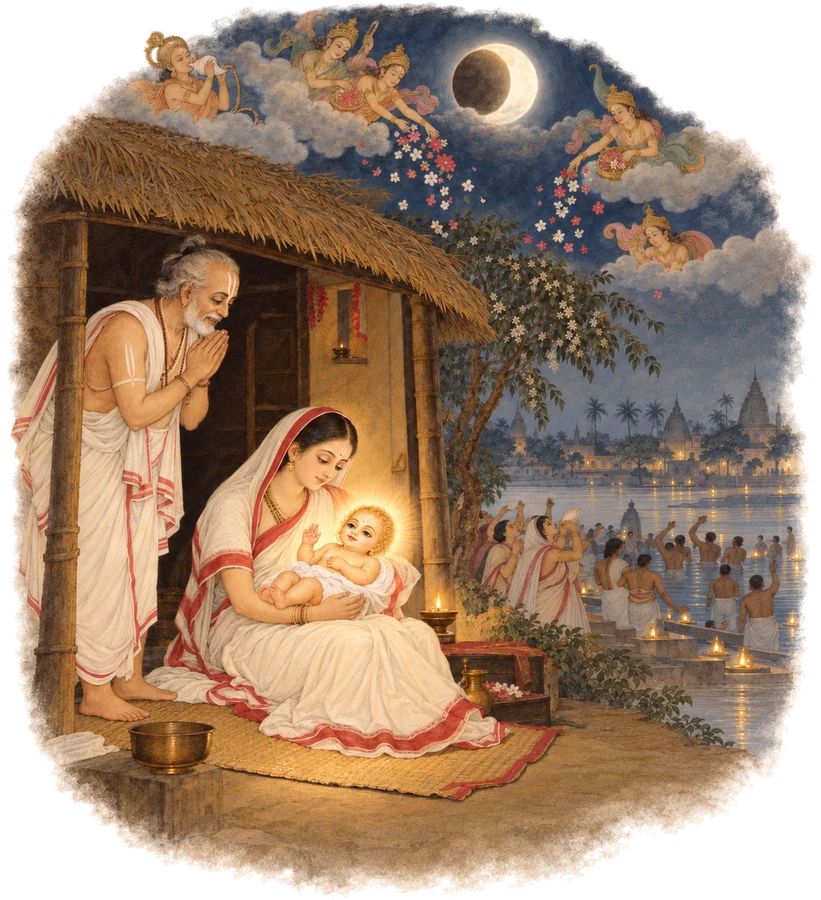
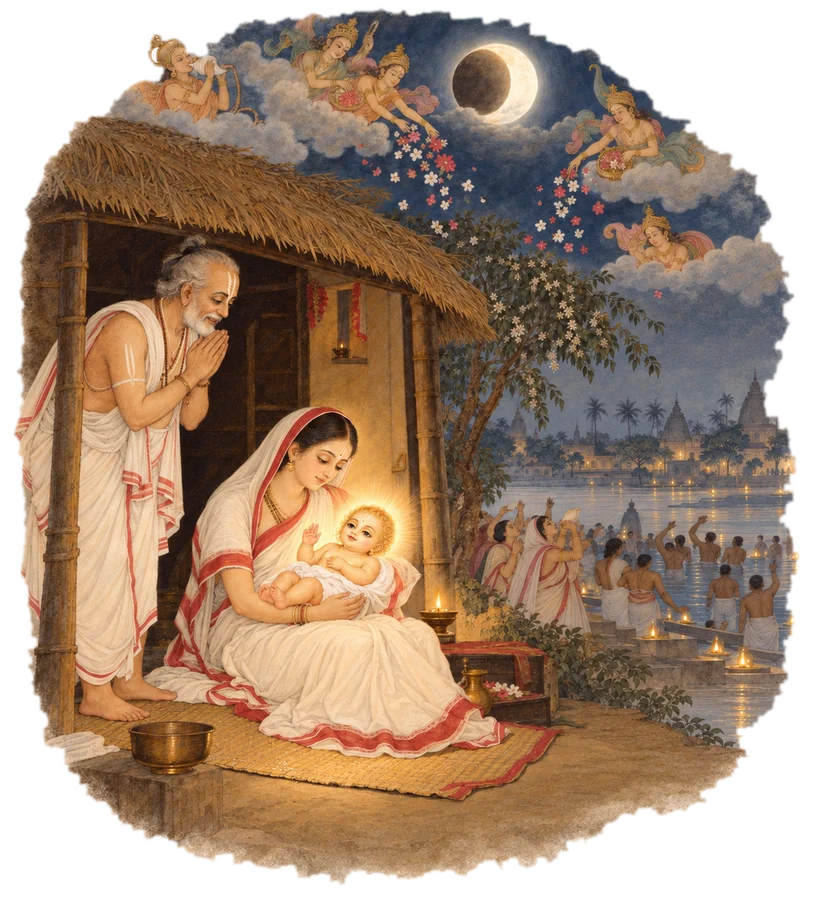
site: иллюстрация явления — без светлой «бумажной» каймы, по естественному краю живописи
Claude-Session: https://claude.ai/code/session_01H8Gb7aUwSNerpTZqfKca1U

Changed region(s): [[0.0, 0.0622, 1.0, 0.9956], [0.1523, 0.0, 0.7308, 0.0933]]

diff --git a/site/tools/prep_assets.py b/site/tools/prep_assets.py
@@ -86,15 +86,24 @@ save(sky.resize((1800, round(sky.height * 1800 / sky.width)), Image.LANCZOS), 'h
 
 
 # Иллюстрации лил: src/lila/<id>.png (виньетка на белом) → img/<id>.webp с прозрачным фоном.
-# Белое и почти белое уходит в прозрачность, мягкий край кисти сохраняется.
-def white_to_alpha(im, lo=8, hi=60):
-    a = np.asarray(im.convert('RGB')).astype(np.float32)
-    d = 255 - a.min(axis=2)                    # насколько пиксель темнее белого
-    alpha = np.clip((d - lo) / (hi - lo), 0, 1)
-    # цвет полупрозрачного края «отмываем» от белого, чтобы на бумаге не было светлой каймы
-    k = np.maximum(alpha, 1e-3)[..., None]
-    rgb = np.clip((a - 255 * (1 - k)) / k, 0, 255)
-    return Image.fromarray(np.dstack([rgb, alpha * 255]).astype(np.uint8), 'RGBA')
+# Фон — светлая малонасыщенная область, связанная с краем картинки (заливка от краёв), вместе со светлой
+# «бумажной» бахромой кисти; край затем чуть подрезается и смягчается (1–2 px). Живопись остаётся непрозрачной,
+# со своими естественными краями; белые облака внутри не трогаются (они не связаны с краем через светлый фон).
+def white_to_alpha(im, thr=140, sat=45, erode=9):
+    a = np.asarray(im.convert('RGB'))
+    ai = a.astype(int)
+    light = (ai.min(axis=2) > thr) & ((ai.max(axis=2) - ai.min(axis=2)) < sat)
+    cand = Image.fromarray(np.where(light, 0, 255).astype(np.uint8), 'L').copy()
+    w, h = cand.size
+    px = cand.load()
+    seeds = [(x, 0) for x in range(0, w, 3)] + [(x, h - 1) for x in range(0, w, 3)] + \
+            [(0, y) for y in range(0, h, 3)] + [(w - 1, y) for y in range(0, h, 3)]
+    for xy in seeds:
+        if px[xy] == 0:
+            ImageDraw.floodfill(cand, xy, 128)
+    alpha = Image.fromarray(np.where(np.asarray(cand) == 128, 0, 255).astype(np.uint8), 'L')
+    alpha = alpha.filter(ImageFilter.MinFilter(erode)).filter(ImageFilter.GaussianBlur(1.6))
+    return Image.fromarray(np.dstack([a, np.asarray(alpha)]), 'RGBA')
 
 
 LILA = os.path.join(SRC, 'lila')
